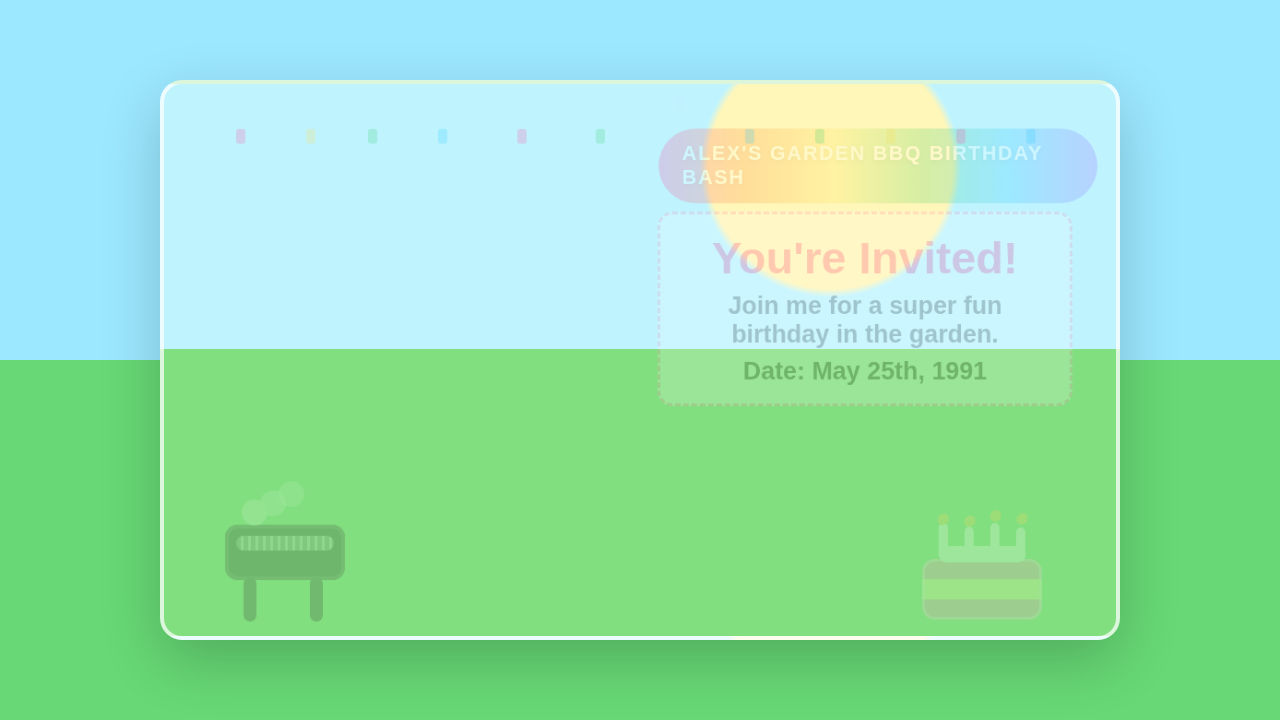
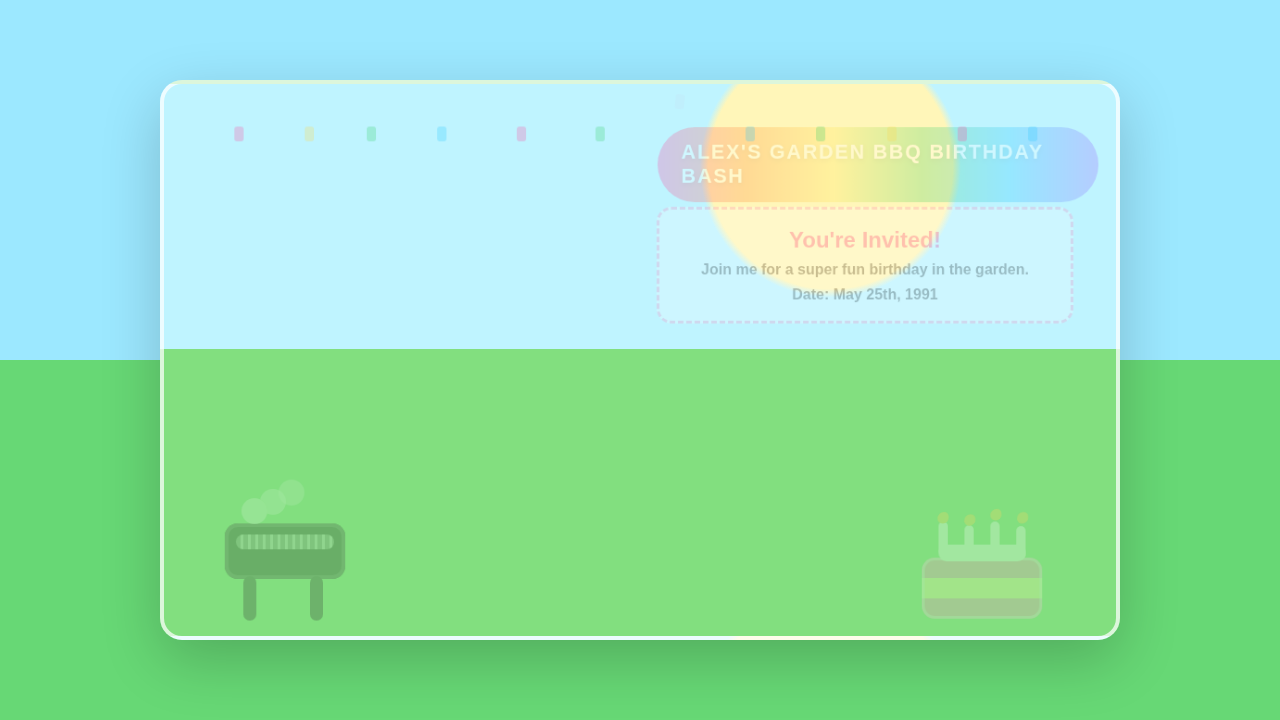
style: align invite card typography with original design
Agent-Logs-Url: https://github.com/lbhtran/alex-birthday-invite/sessions/5e308fad-03b4-49b8-a43a-c3dc53698c64

diff --git a/app/globals.css b/app/globals.css
@@ -92,13 +92,11 @@ body {
 .invite-card h1 {
   margin: 0;
   color: #ff2b8d;
-  font-size: clamp(2rem, 3.8vw, 3.3rem);
 }
 
 .invite-card p {
   margin: 0.55rem 0 0;
   font-weight: 700;
-  font-size: clamp(1rem, 2.1vw, 1.9rem);
 }
 
 .scene:hover .invite-card {
